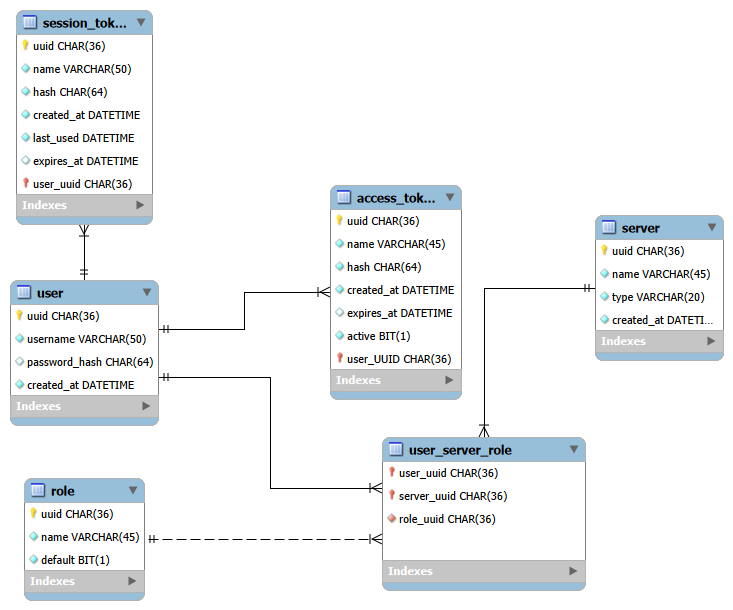
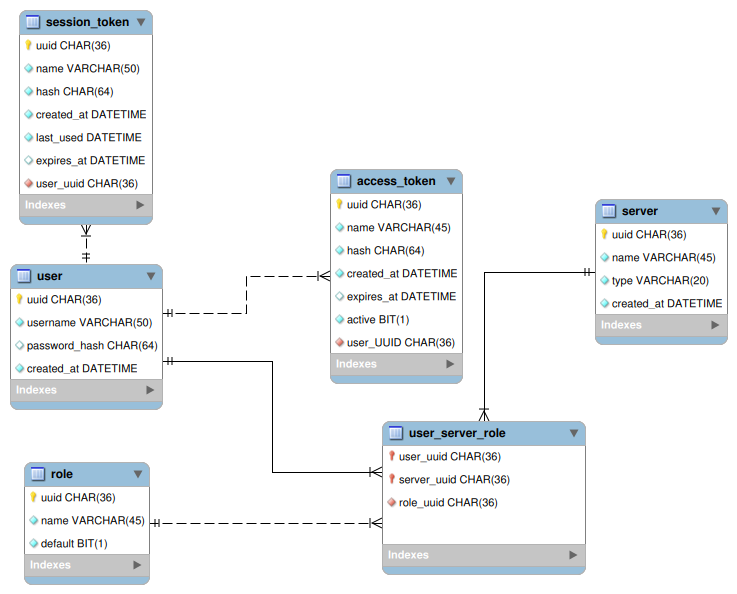
Created proyect

diff --git a/src/main/java/com/warone11/App.java b/src/main/java/com/warone11/App.java
@@ -1,0 +1,38 @@
+package com.warone11;
+
+import io.javalin.Javalin;
+
+public class App {
+    public static void main(String[] args) {
+        var app = Javalin.create(config -> {
+            config.jetty.host="127.0.0.1";
+            config.routes.get("/", ctx -> {
+                ctx.html("""
+                    <!DOCTYPE html>
+                    <html lang="es">
+                    <head>
+                        <meta charset="UTF-8">
+                        <meta name="viewport"
+                              content="width=device-width, initial-scale=1.0">
+                        <title>127MC</title>
+                    </head>
+                    <body>
+                        <h1>127MC</h1>
+                        <p>El servidor web está funcionando.</p>
+                    </body>
+                    </html>
+                    """);
+            });
+
+            config.routes.get("/api/health", ctx -> {
+                ctx.json(java.util.Map.of(
+                    "application", "127MC",
+                    "status", "ok"
+                ));
+            });
+
+        }).start(7070);
+
+        System.out.println("Servidor web iniciado en http://127.0.0.1:7070");
+    }
+}

diff --git a/src/main/java/com/warone11/database/DatabaseManager.java b/src/main/java/com/warone11/database/DatabaseManager.java
@@ -1,0 +1,40 @@
+package com.warone11.database;
+
+import java.nio.file.Files;
+import java.nio.file.LinkOption;
+import java.nio.file.Path;
+import java.sql.Connection;
+import java.sql.DriverManager;
+import java.sql.SQLException;
+import java.sql.Statement;
+/** Manages the connection to the database
+ */
+public class DatabaseManager {
+    private static final String USERNAME = "root";
+    private static final String PASSWORD = "root";
+    private static Connection con;
+
+
+    public static Connection getConnection(){
+
+        String url = "jdbc:sqlite:data/127mc.db";
+        boolean dataBaseExists =Files.exists(Path.of("data/127mc.db"));
+        try{
+             Connection con= DriverManager.getConnection(url, USERNAME, PASSWORD);
+             try (Statement statement = con.createStatement()) {
+                statement.execute("PRAGMA foreign_keys = ON;");
+             } 
+             if(!dataBaseExists){
+                Initialize(con);
+             }
+             return con;
+        } catch (SQLException e){
+            e.printStackTrace();
+            return null;
+        }
+        
+    }
+    private static void Initialize(Connection con){
+        
+    }
+}

diff --git a/src/main/java/com/warone11/Test.java b/src/main/java/com/warone11/Test.java
@@ -1,0 +1,11 @@
+package com.warone11;
+
+import java.sql.Connection;
+
+import com.warone11.database.DatabaseManager;
+
+public class Test {
+    public static void main(String[] args) {
+        Connection con = DatabaseManager.getConnection();
+    }
+}
